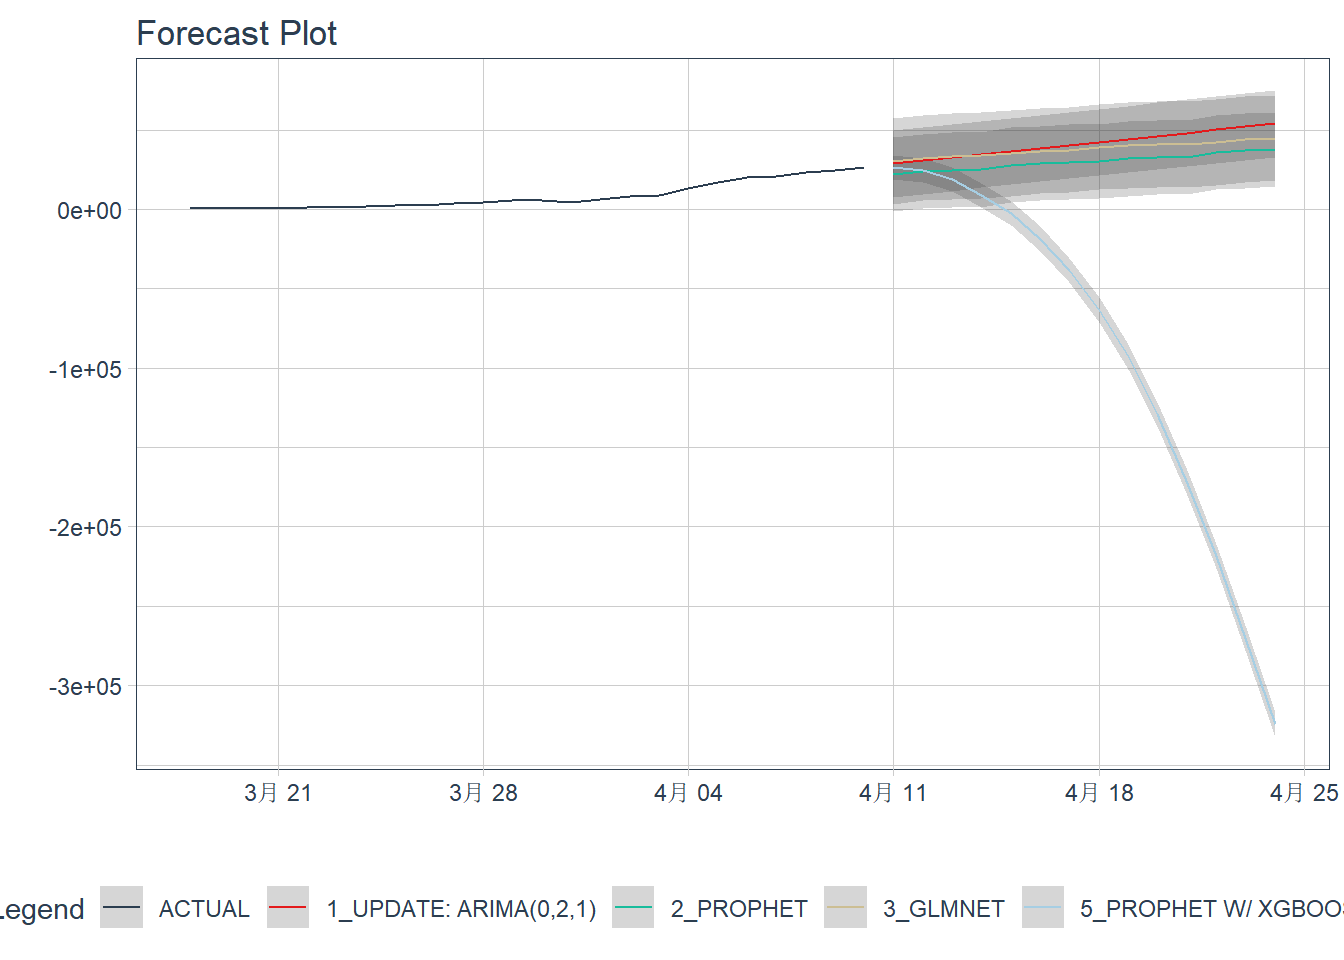
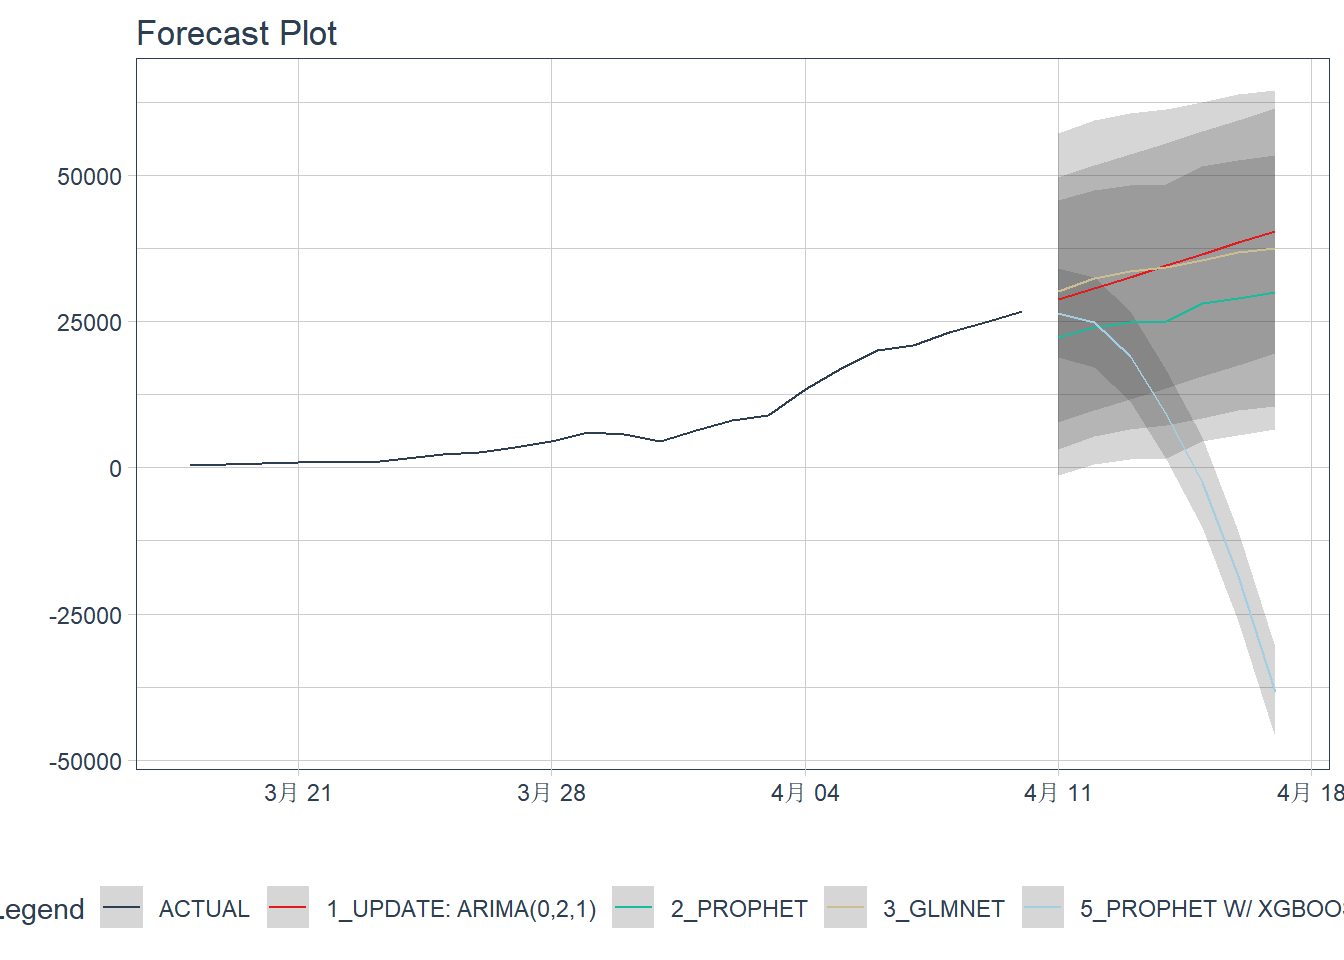
当地

diff --git a/content/post/2022-03-24-covidsh/index.html b/content/post/2022-03-24-covidsh/index.html
@@ -1,5 +1,5 @@
 ---
-title: R爬上海疫情数据简单可视化分析(4月11日更新)
+title: 上海疫情数据简单可视化分析(4月11日更新)
 author: Luo Fei
 date: '2022-03-24'
 slug: covidsh
@@ -41,7 +41,7 @@ cover:
 <h1><span class="header-section-number">1</span> 数据获取</h1>
 <div id="数据来源" class="section level2" number="1.1">
 <h2><span class="header-section-number">1.1</span> 数据来源</h2>
-<p>要获取准确的数据，当然是上官方网站。打开上海市卫健委的官网(<a href="https://wsjkw.sh.gov.cn/xwfb/index.html" class="uri">https://wsjkw.sh.gov.cn/xwfb/index.html</a>)，疫情数据公告都在“新闻发布”栏目中，再仔细一看，疫情信息的标题中就包含了所有新增、确诊数据。真是太方便了。新闻页面也是连续的以<code>_[num]</code>为页码的编号，这种页面爬起来不要太省事。</p>
+<p>要获取准确的数据，当然是上官方网站。打开上海市卫健委的官网(<a href="https://wsjkw.sh.gov.cn/xwfb/index.html" class="uri">https://wsjkw.sh.gov.cn/xwfb/index.html</a>)，疫情数据公告都在“新闻发布”栏目中疫情信息的标题中就包含了所有新增、确诊数据。真是太方便了。</p>
 <pre class="r"><code>library(rvest)
 library(tidyverse)
 library(lubridate)
@@ -90,7 +90,7 @@ library(FME)</code></pre>
 </div>
 <div id="地区分布" class="section level2" number="2.6">
 <h2><span class="header-section-number">2.6</span> 地区分布</h2>
-<p>重新爬了一下按地区分布的，结果很明显，浦东新区感染者数量最多，见下表：</p>
+<p>获取了地区分布的疫情数据，结果很明显，浦东新区感染者数量最多，见下表：</p>
 <table>
 <colgroup>
 <col width="4%" />
@@ -631,7 +631,7 @@ library(FME)</code></pre>
 <p><img src="{{< blogdown/postref >}}index_files/figure-html/unnamed-chunk-20-1.png" width="672" style="display: block; margin: auto;" /></p>
 <div id="预测" class="section level2" number="3.1">
 <h2><span class="header-section-number">3.1</span> 预测</h2>
-<p>建立线性回归模型
+<p>曲线拟合如下
 <img src="{{< blogdown/postref >}}index_files/figure-html/unnamed-chunk-21-1.png" width="672" style="display: block; margin: auto;" /></p>
 </div>
 </div>
@@ -649,9 +649,14 @@ library(FME)</code></pre>
 <p>propboost</p>
 <p>校准模型</p>
 <p>校准</p>
-<p>预测</p>
+</div>
+<div id="预测-1" class="section level2" number="5.2">
+<h2><span class="header-section-number">5.2</span> 预测</h2>
 <p><img src="{{< blogdown/postref >}}index_files/figure-html/unnamed-chunk-30-1.png" width="672" style="display: block; margin: auto;" /></p>
-<p>准确率,从下表可见拟合度最高的前面1，2，3，5这4个模型。</p>
+</div>
+<div id="准确率" class="section level2" number="5.3">
+<h2><span class="header-section-number">5.3</span> 准确率</h2>
+<p>从下表可见拟合度最高的前面1，2，5这3个模型。</p>
 <div id="frpqcaxiyi" style="overflow-x:auto;overflow-y:auto;width:auto;height:auto;">
 <style>html {
   font-family: -apple-system, BlinkMacSystemFont, 'Segoe UI', Roboto, Oxygen, Ubuntu, Cantarell, 'Helvetica Neue', 'Fira Sans', 'Droid Sans', Arial, sans-serif;
@@ -1126,9 +1131,14 @@ library(FME)</code></pre>
   
 </table>
 </div>
+</div>
+<div id="模型选择" class="section level2" number="5.4">
+<h2><span class="header-section-number">5.4</span> 模型选择</h2>
 <p>重新拟后，感觉最好的机器学习的Glmnet模型</p>
-<p><img src="{{< blogdown/postref >}}index_files/figure-html/unnamed-chunk-32-1.png" width="672" style="display: block; margin: auto;" />
-# 无责任预测</p>
+<p><img src="{{< blogdown/postref >}}index_files/figure-html/unnamed-chunk-32-1.png" width="672" style="display: block; margin: auto;" /></p>
+</div>
+<div id="无责任预测" class="section level2" number="5.5">
+<h2><span class="header-section-number">5.5</span> 无责任预测</h2>
 <p>筛选1，2，3号模型的预测值如下:</p>
 <table>
 <thead>
